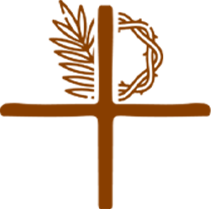
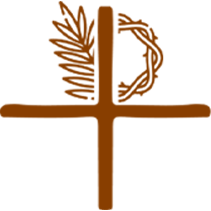
2.2

diff --git a/sass/style-pages.scss b/sass/style-pages.scss
@@ -35,7 +35,7 @@
       background-color: var(--vermelho);
     }
     .icone{
-      max-width: 100px;
+      max-width: 130px;
       mix-blend-mode: color-burn;
     }
   }

diff --git a/sass/style-pages.css b/sass/style-pages.css
@@ -22,7 +22,7 @@
   background-color: var(--vermelho);
 }
 #home .icone {
-  max-width: 100px;
+  max-width: 130px;
   mix-blend-mode: color-burn;
 }
 
